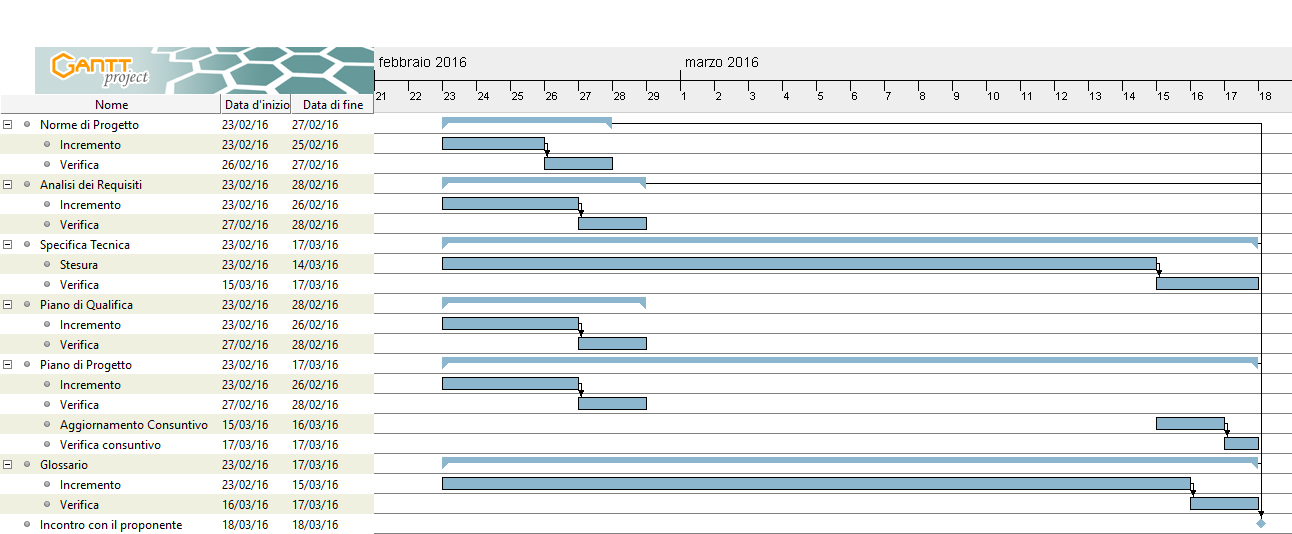
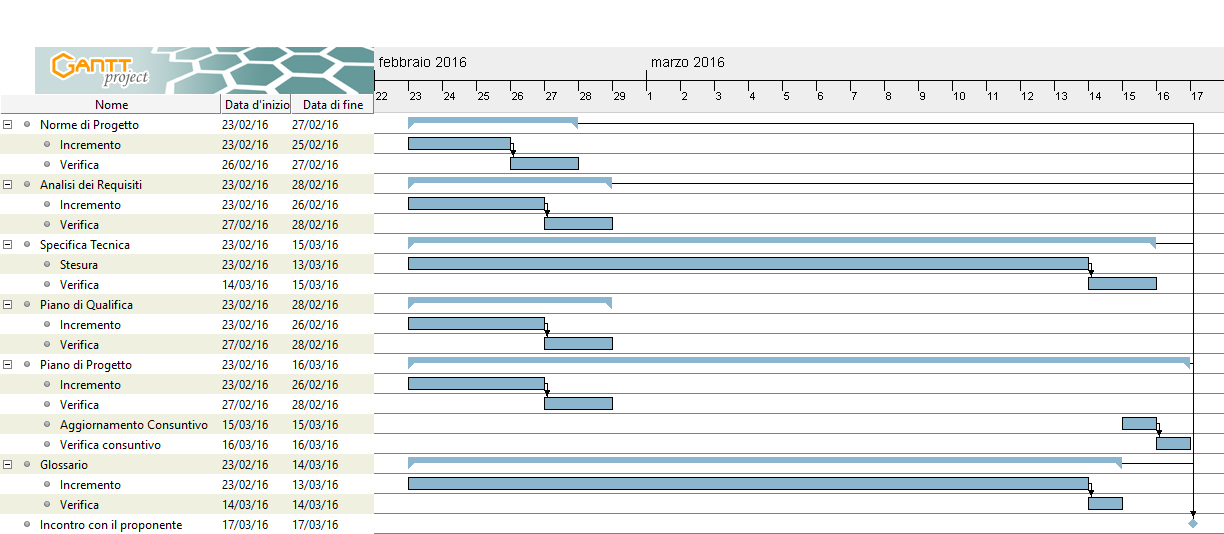
Modifiche gantt

diff --git a/Documents/RR/ExternalDocuments/PianoDiProgetto/sections/Pianificazione.tex b/Documents/RR/ExternalDocuments/PianoDiProgetto/sections/Pianificazione.tex
@@ -49,7 +49,7 @@
 			\end{figure}
 
 	\subsection{Fase PA: Progettazione Architetturale}
-		\textbf{Periodo: dal 2016-02-23 al 2016-03-18}
+		\textbf{Periodo: dal 2016-02-23 al 2016-03-17}
 		
 		Questa fase\g\ comincia con la fine della fase\g\ AD e termina con l'incontro con il proponente per mostrare l'architettura logica prodotta. Le attività di questa fase sono:
 		\begin{itemize}
@@ -73,7 +73,7 @@
 			\end{figure}
 			
 	\subsection{Fase PDROB: Progettazione di Dettaglio e codifica dei Requisiti Obbligatori}
-		\textbf{Periodo: dal 2016-03-19 al 2016-04-18}
+		\textbf{Periodo: dal 2016-03-18 al 2016-04-18}
 		
 		Questa fase\g\ inizia con la fine della fase\g\ PA e termina con la consegna della \textbf{Revisione di progetto}. Le attività di questa fase saranno le seguenti:
 		\begin{itemize}
